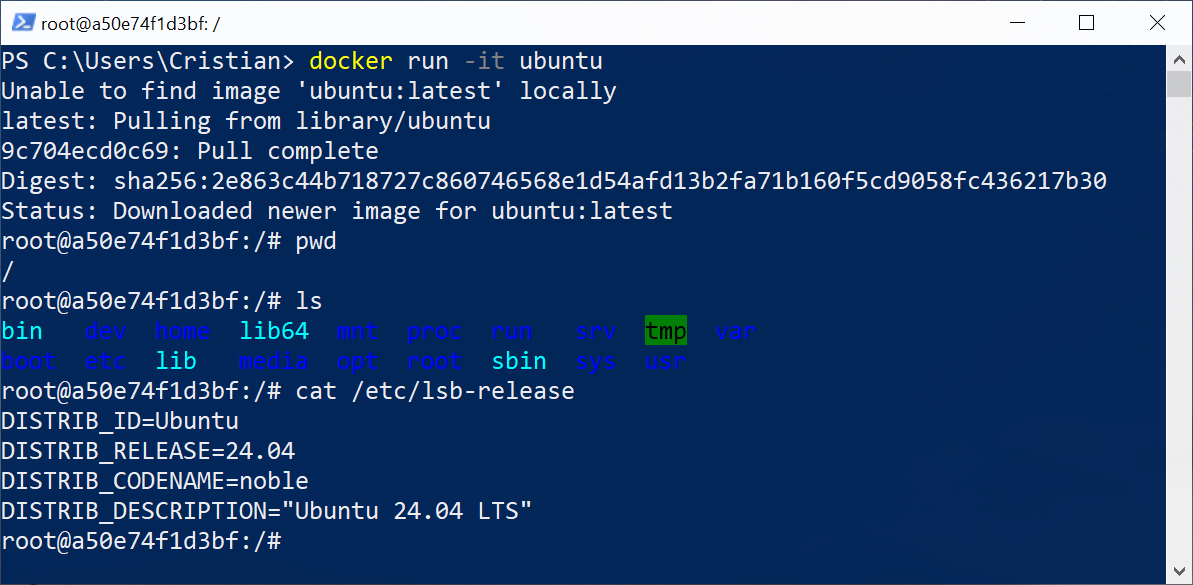
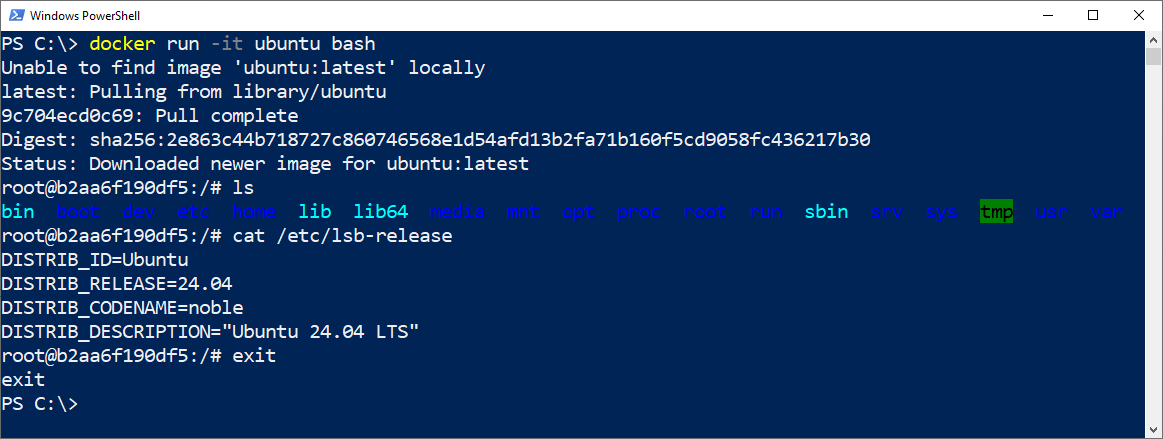
Clase1 finish

Changed region(s): [[0.0, 0.0, 1.0, 1.0], [0.0, 0.9772, 0.031, 1.0]]

diff --git a/clase1.html b/clase1.html
@@ -52,7 +52,7 @@
                         <li>Coordinador IDEP Informática</li>
                     </ul>
                 </small>
-                <p><small>Plataforma a usar: <a href="http://docker.idepba.com.ar/">http://docker.idepba.com.ar/</a></small></p>
+                
 					
 				</section>
 
@@ -65,13 +65,45 @@
                             <li>Introducir al uso de Docker para conteinerización.</li>
                             <li>Mostrar generalidades del uso de contenedores Docker y mencionar usos de dicha tecnología.</li>
                             <li>Uso práctico de Docker</li>
-                            <li>Introdocir al uso de bash para depuración de contenedores Docker</li>
+                            <li>Introdocir al uso de <a href="https://es.wikipedia.org/wiki/Bash" target="_blank">bash</a> para depuración de contenedores Docker</li>
                             <li>Está orientado a: desarrolladores, administradores de sistemas, entusiastas IT, home labers.</li>
                             
                         </ul>
                     </small>
 
+                    <h4>Organización del curso</h4>
+                    <small>
+                    <ul>
+                        <li>Apuntes de clases teóricas: <a href="https://docker.idepba.com.ar/">docker.idepba.com.ar</a></li>
+                        <li>Laboratorios y práctica</li>
+                    </ul>
+                    </small>
+
+                    
+
 				</section>
+
+                <section id="index" data-state="no_footer">
+                    <h2>Temas de clase 1</h2>
+                   
+                        <ul>
+                            <li><a href="#/intro-container">Introducción a contenedores</a></li>
+                            <li><a href="#/intro-vm">Repaso VM</a></li>
+                            <li><a href="#/intro-container1">Arquitectura contenedores</a></li>
+                            <li><a href="#/intro-usos">Casos de usos</a></li>
+                            <li><a href="#/docker1">Introducción a Docker</a></li>
+                            <li><a href="#/docker-install2">Instalación de Docker</a></li>
+                            <li><a href="#/ejercicio_clase1">Ejercicio práctico</a></li>
+                            
+
+
+                        </ul>
+                    
+
+
+                </section>
+
+
             </section>
 
 
@@ -139,7 +171,7 @@
                     <h2>Containers vs. VM</h2>
                     
                     <small>
-                    <section data-markdown>
+                    <!-- <section data-markdown>
                         <textarea data-template>
                             |   Caracteristica   | VM                    | Container             |
                             |--------------------|-----------------------|-----------------------|
@@ -151,27 +183,71 @@
                             | Seguridad       | Fuerte aislamiento de seguridad    | Aislamiento a nivel de proceso    |
 
                         </textarea>
-                      </section>
+                      </section> -->
+
+                      <table><thead>
+                        <tr>
+                          <th>Caracteristica</th>
+                          <th>VM</th>
+                          <th>Container</th>
+                        </tr></thead>
+                      <tbody>
+                        <tr>
+                          <td>Aislamiento</td>
+                          <td>Completo (a nivel hw)</td>
+                          <td>Liviano (proceso)</td>
+                        </tr>
+                        <tr>
+                          <td>Recursos</td>
+                          <td>Mas uso de recursos</td>
+                          <td>Menos uso de recursos</td>
+                        </tr>
+                        <tr>
+                          <td>Arranque</td>
+                          <td>Lento</td>
+                          <td>Rapido</td>
+                        </tr>
+                        <tr>
+                          <td>SO</td>
+                          <td>Multiples SO</td>
+                          <td>Mismo kernel host</td>
+                        </tr>
+                        <tr>
+                          <td>Portabilidad</td>
+                          <td>Limitada, depende del hipervisor</td>
+                          <td>Alta, ejecutable en cualquier entorno</td>
+                        </tr>
+                        <tr>
+                          <td>Seguridad</td>
+                          <td>Fuerte aislamiento de seguridad</td>
+                          <td>Aislamiento a nivel de proceso</td>
+                        </tr>
+                      </tbody>
+                      </table>
+
+
+                      
                     </small>
                     <p><small>Esto no significa que las máquinas virtuales sean obsoletas en comparación con los contenedores. En algunas situaciones, el uso de contenedores no será posible. Por ejemplo, cuando se necesitan diferentes sistemas operativos para cada aplicación.</small></p>
                     
                     
                 </section>
 
-                <section id="intro-casos_de_usos" data-state="no_footer">
+                <section id="intro-usos" data-state="no_footer">
                     <h3>Casos de usos de contenedores</h3>
+                    
                     <small>
                     <ul>
                         <li><strong>Desarrollo de microservicios:</strong> Adecuados para arquitecturas de microservicios donde cada componente de la aplicación se despliega de manera independiente.</li>
                         <li><strong>Integración Continua y Despliegue Continuo:</strong>Facilitan la creación de pipelines de CI/CD, permitiendo despliegues rápidos y frecuentes.</li>
                         <li><strong>Containerización de aplicaciones legacy</strong>: Se puede modernizar la infraestructura de aplicaciones no pensadas para contenedores. La conteinerización ayuda a la portabilidad y automatización de despliegues.</li>
                         <li><strong>Despliegue sencillo de aplicaciones</strong>: Con solo copiar y pegar una instrucción o un archivo de texto es posible tener aplicaciones complejas deployadas para ambientes de prueba rápidamente.</li>
-                        <!-- <li><strong>a</strong>: a</li> -->
+                    
 
                     </ul>
 
-                    <p>Existen varias tecnologías que utilizan contenedores, entre ellas: <a href="https://linuxcontainers.org/" target="_blank">LXC</a>, <a href="https://canonical.com/lxd" target="_blank">LXD</a>, <a href="https://www.docker.com/" target="_blank"><strong>Docker</strong></a>,  <a href="https://podman.io/" target="_blank">Podman</a>, <a href="https://containerd.io/" target="_blank">containerd</a>. Además, hay herramientas de orquestación y gestión de contenedores como <a href="https://kubernetes.io/es/" target="_blank">Kubernetes</a> , <a href="https://okd.io/" target="_blank">OKD</a>q</p>
-                </small>
+                    <p>Existen varias tecnologías que utilizan contenedores, entre ellas: <a href="https://linuxcontainers.org/" target="_blank">LXC</a>, <a href="https://canonical.com/lxd" target="_blank">LXD</a>, <a href="https://www.docker.com/" target="_blank"><strong>Docker</strong></a>,  <a href="https://podman.io/" target="_blank">Podman</a>, <a href="https://containerd.io/" target="_blank">containerd</a>. Además, hay herramientas de orquestación y gestión de contenedores como <a href="https://kubernetes.io/es/" target="_blank">Kubernetes</a>, <a href="https://okd.io/" target="_blank">OKD</a>.</p>
+                    </small>
                     
                 </section>
 
@@ -311,7 +387,7 @@
                                 </li>
                             </ul>
 
-                            <p>En el curso veremos el uso de <strong>Docker cli</strong>, ya que no siempre podemos contar con una interface gráfica, ejemplo cuando se corre en servidores.</p>
+                            <p>En el curso veremos el uso de <strong><a href="https://docs.docker.com/reference/cli/docker/" target="_blank">Docker CLI</a></strong>, ya que no siempre podemos contar con una interface gráfica, ejemplo cuando se corre en servidores.</p>
                     
                     
                     
@@ -323,14 +399,14 @@
                 <section id="docker-install_10" data-state="no_footer">
                     <h4>Instalando DOcker Desktop en Windows</h4>
                     <small><p>Una vez descargado el instalador, al instalar se verán las siguientes pantallas:</p></small>
-                    <img src="img/clase1/Docker_install.png">
+                    <img src="img/clase1/Docker_install.png" width="60%" height="60%">
 
                 </section>
 
                 <section id="docker-install_11" data-state="no_footer">
                     <h4>Instalando DOcker Desktop en Windows</h4>
                     <small><p>Debemos aceptar los términos.</p></small>
-                    <img src="img/clase1/Docker_install2.png" class="screenshot-borde">
+                    <img src="img/clase1/Docker_install2.png" class="screenshot-borde" width="80%" height="80%">
 
                 </section>
 
@@ -419,10 +495,10 @@
                     <h4>Ejecutamos un contenedor Ubuntu</h4>
 
                     
-                    <img src="img/clase1/docker_ubuntu1.png" width="100%" height="100%">
+                    <img src="img/clase1/docker_ubuntu1.png" >
 
                     <pre class="codigo_shadow" data-id="code-animation"><code class="bash codigo-redondo" data-trim>
-                        docker run -it ubuntu
+                        docker run -it ubuntu bash
                     </code></pre>
                     
                 </section>
@@ -438,10 +514,6 @@
                             <li class="fragment">El contenedor NO es el mismo que se ejecutó la vez anterior.</li>
 
                         </ul>
-
-                        <p class="fragment">En este caso se le agrega el comando bash para que se ejecute. Pero el resultado es el mismo.</p>
-
-
                     </small>
                     
                 </section>
@@ -458,10 +530,10 @@
 
             <section id="ejercicio_clase1" data-state="no_footer">
                 <h3>Ejercicio en clase:</h3>
-
+            
                 <ul>
                     <li>Instalar Docker en su PC</li>
-                    <li>Ejecutar la imágen hello-world</li>
+                    <li>Ejecutar la imágen hello-world*</li>
                     <li>Ejecutar en una sesión interactiva la imágen ubuntu
                         <ul>
                             <li>Ejecutar el siguiente comando para ver la memoria RAM libre.</li>
@@ -477,6 +549,8 @@
                     </li>
 
                 </ul>
+                <p><small><em>* Importante:</em> Asegúrese que Docker Desktop esté iniciado.</small></p>
+            
                 
 
             </section>
